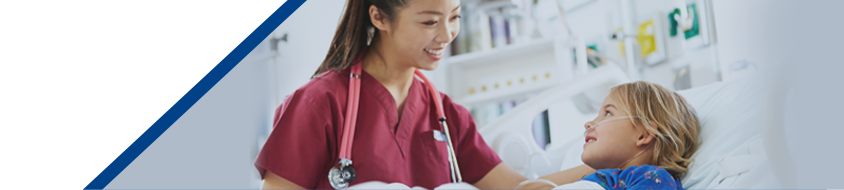
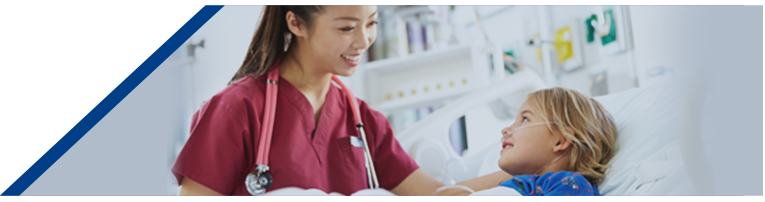
Make adjustment to the Participating resource page

diff --git a/src/pages/participatingResourcesPage/ParticipatingResourcesPage.js b/src/pages/participatingResourcesPage/ParticipatingResourcesPage.js
@@ -21,30 +21,28 @@ const PageHeaderArea = styled.div`
 `;
 
 const PageLabelArea = styled.div`
-  width: 40%;
+  width: 500px;
 `;
 
 const PageLabel = styled.div`
   color: #07368b;
-  font-size: 32px;
+  font-size: 42px;
+  line-height: 42px;
   font-weight: bold;
   font-family: Arial, Helvetica, sans-serif;
 `;
 
 const PageLabelMore = styled.div`
   color: #9fb4c2;
-  font-size: 20px;
+  font-size: 29px;
+  line-height: 42px;
 `;
 
 const PageLogoArea = styled.div`
-  width: 85%;
-  height: 150px;
-  background-repeat: no-repeat;
-  background-size: 100% 100%;
-  background-size: cover;
+  width: 700px;
+  height: 202px;
+  background-size: auto;
   background-image: url(${img});
-  border-bottom: 2px solid white;
-  background-position: center;
 `;
 
 const SearchContainer = styled.div`

diff --git a/src/pages/participatingResourcesPage/Filters/Filters.js b/src/pages/participatingResourcesPage/Filters/Filters.js
@@ -10,7 +10,7 @@ const FilterSection = styled.div`
 const FilterLabel = styled.div`
   background-color: #f7f8fa;
   margin: 0 5px;
-  padding: 10px;
+  padding: 10px 10px 5px 10px;
   color: #245284;
   font-weight: 700;
   font-family: -apple-system, BlinkMacSystemFont, 'Segoe UI', Roboto, Oxygen, Ubuntu, Cantarell, 'Open Sans', 'Helvetica Neue', sans-serif;

diff --git a/src/components/Accordion/AccordionItem.js b/src/components/Accordion/AccordionItem.js
@@ -27,7 +27,8 @@ const OptionContainer = styled.div`
 const OptionLabel = styled.span`
   width: calc(100% - 50px);
   color: #004187;
-  padding-left: 5px;
+  padding-left: 8px;
+  line-height: 18px;
 `;
 
 const OptionCount = styled.span`
